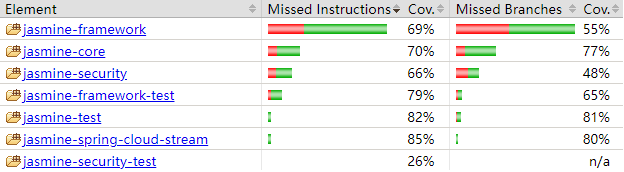
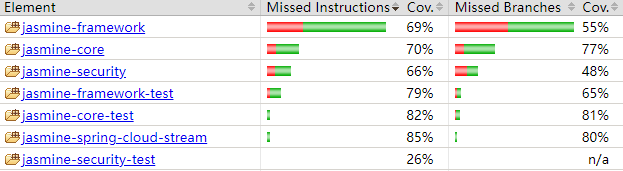
完善代码

diff --git a/README_en_US.md b/README_en_US.md
@@ -44,7 +44,7 @@
 | :----: | :---- |
 | jasmine-bom |  |
 | jasmine-core |  |
-| jasmine-test | unit test support |
+| jasmine-core-test | unit test support |
 | jasmine-framework |  |
 | jasmine-framework-test | unit test support |
 | jasmine-security |  |
